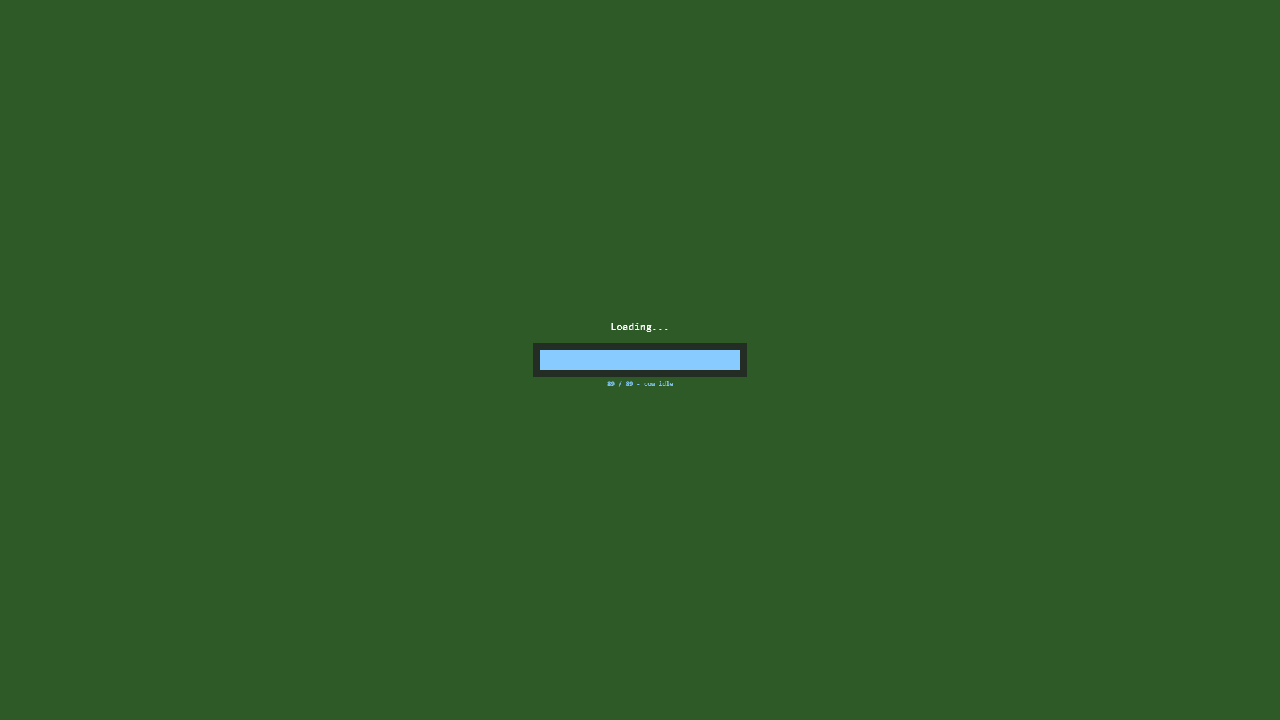
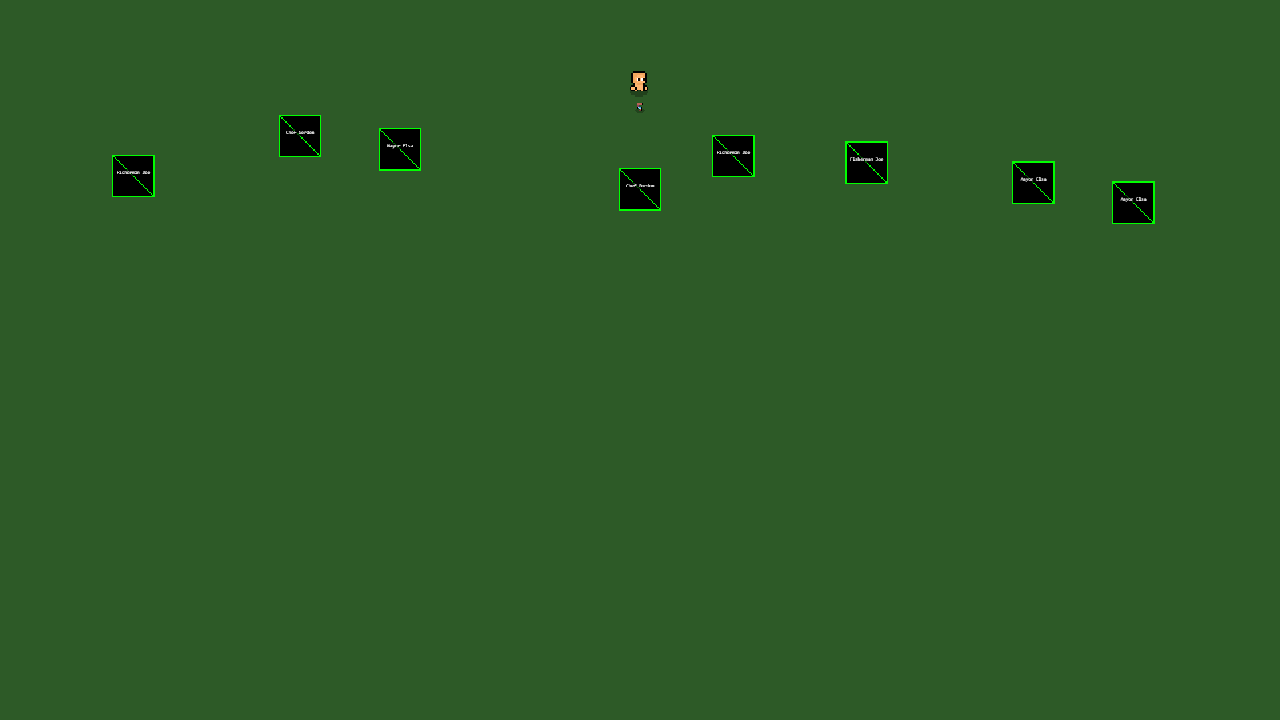
Add stack trace logging for better error debugging

diff --git a/src/scenes/FishingScene.js b/src/scenes/FishingScene.js
@@ -154,9 +154,10 @@ export class FishingScene extends Phaser.Scene {
    */
   handleError(context, error) {
     this.performanceMetrics.errorCount++;
-    this.errorBoundary.lastError = { context, error: error.message, time: Date.now() };
+    this.errorBoundary.lastError = { context, error: error.message, stack: error.stack, time: Date.now() };
     
     this.log('error', `[FishingScene] Error in ${context}:`, error.message);
+    this.log('error', `[FishingScene] Stack trace:`, error.stack);
     
     if (this.performanceMetrics.errorCount > this.errorBoundary.maxErrors) {
       this.log('error', '[FishingScene] Too many errors, attempting recovery...');
